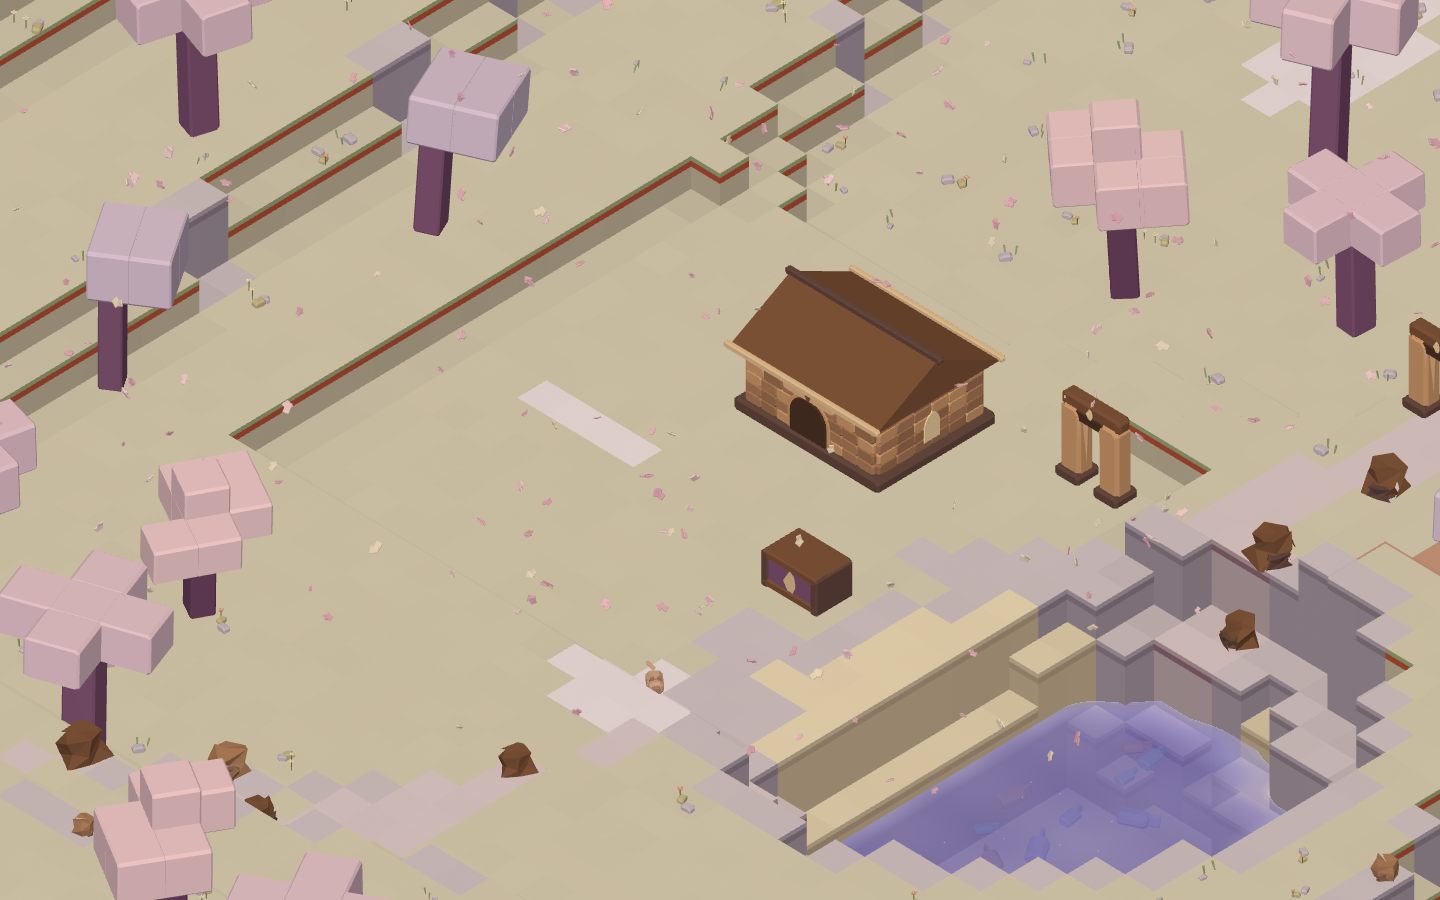
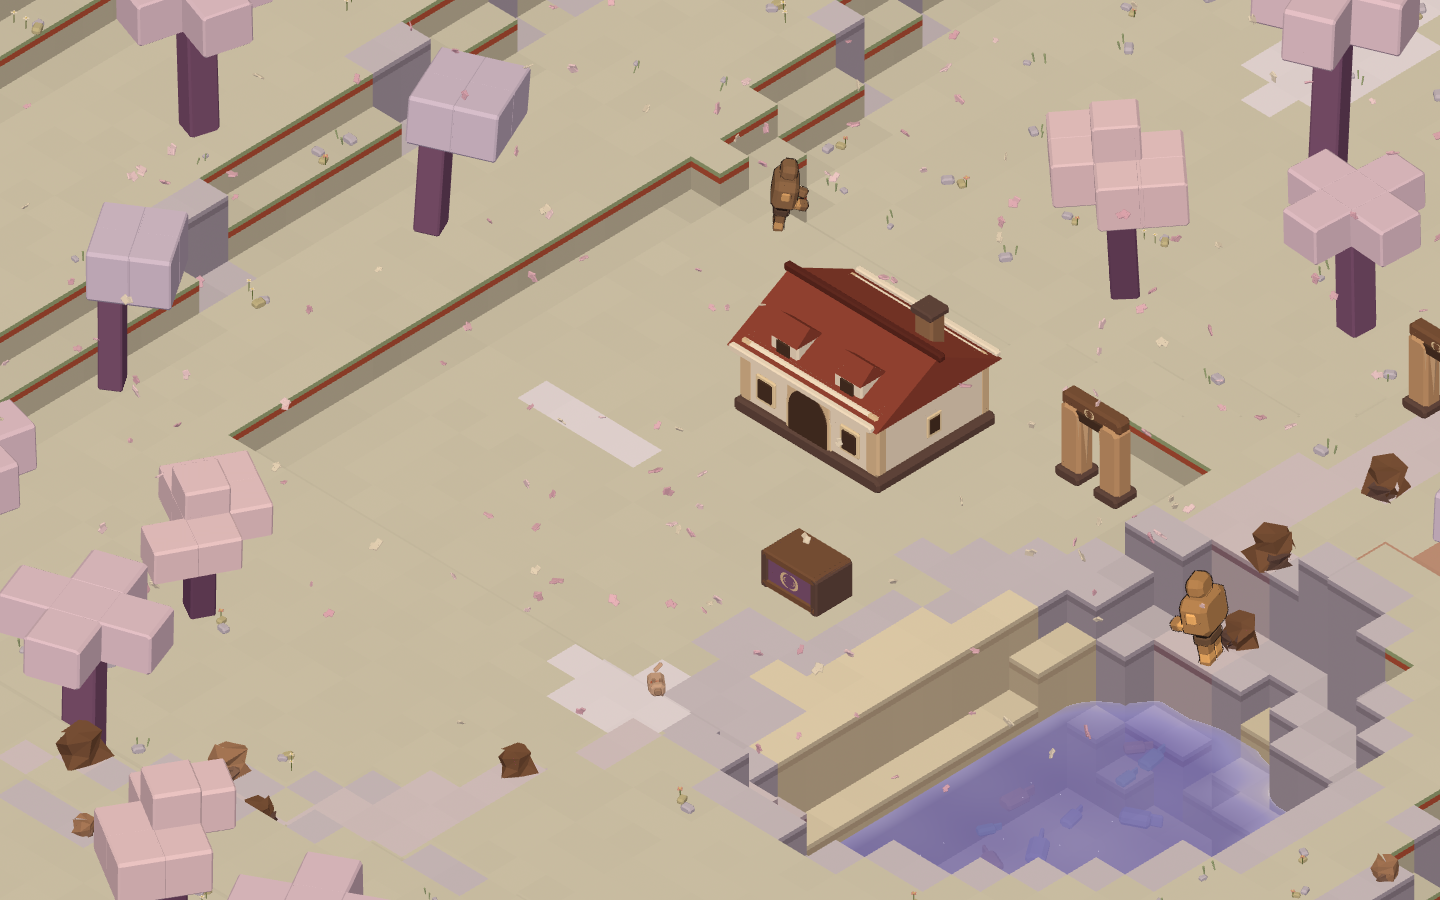
The homestead is a house now, not a box with a lid
Reference: godawful.vercel.app, a low-poly town builder the user pointed at. Its
houses read instantly and mine did not, and studying one up close it comes down
to four things, none of them detail.

THE ROOF IS THE BUILDING. Theirs is half the height of the whole house and
overhangs the walls on every side. Mine was a lid: proportionally small and
stopping flush at the wall. The roof is now 62% of the wall height with a 0.38
eave all round, a ridge beam, and fascia boards in the wall colour so it ties
back to the body instead of floating.

COLOUR SEPARATION. Theirs is a saturated roof on a pale body and the two masses
never merge. Mine was brown walls under a brown roof and the whole thing read as
one lump of stone. Pale plaster walls with cream corner pilasters now, under a
deep oxblood roof — still inside the Seismic warm band, because the separation
that matters is value and saturation, not leaving the palette.

WINDOWS AS A ROW. A building with one window has a window; a building with a row
of them has floors, and the eye reads the storeys off the spacing without being
told. Dark panes in light frames along both long faces and both gable ends, a
second row at tier 3, and they light up at night with the door.

DORMERS AND A CHIMNEY. A roof this size needs breaking or it is a tent.

The log-coursing routine that used to build the walls is gone rather than left
sitting unused — a dwelling is rendered, not stacked out of timbers, and the
[…]

diff --git a/src/world/buildings.js b/src/world/buildings.js
@@ -67,50 +67,44 @@ export function luneArch(w, h, depth = 0.12) {
 
 // --- masonry ----------------------------------------------------------------
 
-/** One course of blocks along X. Courses are offset half a block from the one
- *  below by the caller, which is the only thing separating masonry from a
- *  stack of identical bars. */
-function course(parts, { y, z, x0, x1, h, d, tone, seed = 0, gap = 0.045 }) {
-  const span = x1 - x0
-  const n = Math.max(1, Math.round(span / 0.62))
-  const bw = span / n
-  for (let i = 0; i < n; i++) {
-    const k = ((Math.sin((seed + i * 3.7 + y * 11.3) * 12.9898) * 43758.5453) % 1 + 1) % 1
-    parts.push({
-      geometry: chamferBox(bw - gap, h - gap, d, 0.045),
-      position: [x0 + bw * (i + 0.5), y + h / 2, z],
-      color: k < 0.33 ? tone[0] : k < 0.72 ? tone[1] : tone[2],
-    })
-  }
-}
 
 const WALL_TONES = [UI.stone, UI.stoneMid, UI.stoneLit]
 const DARK_TONES = [UI.stoneDeep, UI.stoneDark, UI.stoneMid]
 
-/** Four walls of coursed masonry, with a gap left for a door on +Z. */
-function walls(parts, { w, d, h, doorW = 0, tone = WALL_TONES, courseH = 0.32 }) {
-  const rows = Math.max(1, Math.round(h / courseH))
-  const ch = h / rows
-  for (let r = 0; r < rows; r++) {
-    const y = r * ch
-    const off = r % 2 ? 0.31 : 0
-    // back and sides
-    course(parts, { y, z: -d / 2, x0: -w / 2, x1: w / 2, h: ch, d: 0.26, tone, seed: r + off })
-    for (const side of [-1, 1]) {
-      const sideParts = []
-      course(sideParts, { y, z: 0, x0: -d / 2, x1: d / 2, h: ch, d: 0.26, tone, seed: r + 5 + off })
-      for (const p of sideParts) {
-        parts.push({ ...p, position: [side * (w / 2), p.position[1], p.position[0]], rotation: [0, Math.PI / 2, 0] })
-      }
+
+/**
+ * The roof tone, and the whole reason the house reads.
+ *
+ * A deep oxblood against pale plaster. Reference town builders put a saturated
+ * roof on a pale body and the two masses never merge; this project had brown
+ * walls under a brown roof and the building came out as one lump of stone. It
+ * stays inside the Seismic warm band — separation is about VALUE and saturation,
+ * not about leaving the palette.
+ */
+const ROOF = '#8f4436'
+const ROOF_DARK = '#5f2c24'
+
+/**
+ * A plain plastered shell: four walls in one pale tone, with a stone base
+ * course. The log-coursing routine is still used by the sheds and the crate,
+ * where a stack of rough timbers is right; a dwelling is rendered instead of
+ * built out of logs, and the difference is what makes it read as a HOUSE.
+ */
+function wallShell(parts, { w, d, h, doorW = 0 }) {
+  const base = 0.26
+  parts.push({ geometry: chamferBox(w + 0.12, base, d + 0.12, 0.05), position: [0, base / 2 + 0.14, 0], color: UI.stoneMid })
+  for (const [sx, sz, ww, dd] of [[0, -d / 2, w, 0.28], [0, d / 2, w, 0.28], [-w / 2, 0, 0.28, d], [w / 2, 0, 0.28, d]]) {
+    parts.push({ geometry: chamferBox(ww, h - base, dd, 0.06), position: [sx, base + (h - base) / 2 + 0.14, sz], color: UI.creamWarm })
+  }
+  // Corner pilasters, a shade darker. Cheap, and they stop a big pale box
+  // reading as a single flat plane from any angle.
+  for (const sx of [-1, 1]) {
+    for (const sz of [-1, 1]) {
+      parts.push({ geometry: chamferBox(0.34, h - base, 0.34, 0.06), position: [sx * (w / 2 - 0.02), base + (h - base) / 2 + 0.14, sz * (d / 2 - 0.02)], color: UI.creamShade })
     }
-    // front, split around the doorway
-    const dh = doorW / 2
-    if (doorW && y < h * 0.62) {
-      course(parts, { y, z: d / 2, x0: -w / 2, x1: -dh, h: ch, d: 0.26, tone, seed: r + 9 + off })
-      course(parts, { y, z: d / 2, x0: dh, x1: w / 2, h: ch, d: 0.26, tone, seed: r + 13 + off })
-    } else {
-      course(parts, { y, z: d / 2, x0: -w / 2, x1: w / 2, h: ch, d: 0.26, tone, seed: r + 9 + off })
-    }
+  }
+  if (doorW) {
+    parts.push({ geometry: chamferBox(doorW + 0.1, h * 0.8, 0.34, 0.05), position: [0, 0.14 + h * 0.4, d / 2], color: UI.creamShade })
   }
 }
 
@@ -128,68 +122,123 @@ export function homestead(tier = 1) {
   const t = Math.max(1, Math.min(4, tier))
   const w = [4.4, 5.2, 6.0, 6.8][t - 1]
   const d = [3.6, 4.2, 4.8, 5.4][t - 1]
-  const h = [1.9, 2.1, 3.0, 3.2][t - 1]
+  // Wall height, and it is deliberately LOW relative to the roof — see below.
+  const h = [1.95, 2.15, 2.85, 3.05][t - 1]
   const parts = []
 
-  // Plinth — every building in the valley stands on one, because the ground
+  // Plinth. Every building in the valley stands on one, because the ground
   // moves and a wall that starts at soil level reads as sinking into it.
   parts.push({ geometry: chamferBox(w + 0.5, 0.28, d + 0.5, 0.07), position: [0, 0.14, 0], color: UI.stoneDark })
-  walls(parts, { w, d, h, doorW: 1.2 })
 
-  // Doorway: the lune arch, recessed, with a dark reveal behind it.
-  parts.push({ geometry: luneArch(1.2, h * 0.62, 0.1), position: [0, 0.28, d / 2 + 0.06], color: UI.stoneShadow })
-  parts.push({ geometry: luneArch(1.42, h * 0.68, 0.14), position: [0, 0.24, d / 2 - 0.02], color: UI.stoneLit })
-  // The lintel stone, with the mark cut into it — which the comment has claimed
-  // since the building went in, while no mark was ever placed on it.
-  parts.push({ geometry: chamferBox(1.7, 0.34, 0.34, 0.06), position: [0, h * 0.68 + 0.34, d / 2], color: UI.stonePale })
-  parts.push({ geometry: markFlatGeometry(), position: [0, h * 0.68 + 0.34, d / 2 + 0.18], scale: [0.3, 0.3, 1], color: UI.stoneDeep })
-
-  // Roof: a wedge, and a ridge beam that overhangs. The overhang is what stops
-  // it reading as a lid.
-  parts.push({ geometry: wedge(w + 0.7, 1.15, d + 0.7), position: [0, h, 0], color: UI.stoneDeep })
-  parts.push({ geometry: chamferBox(w + 0.9, 0.14, 0.18, 0.04), position: [0, h + 1.16, 0], color: UI.stoneDark })
-  parts.push({ geometry: chamferBox(w + 0.85, 0.12, 0.16, 0.035), position: [0, h + 0.06, d / 2 + 0.36], color: UI.creamShade })
-  parts.push({ geometry: chamferBox(w + 0.85, 0.12, 0.16, 0.035), position: [0, h + 0.06, -d / 2 - 0.36], color: UI.creamShade })
-
-  // Windows, as lune arches in cream — the only cream on the building, so they
-  // are what your eye finds from across the valley.
+  // --- the walls -------------------------------------------------------------
+  // PALE, and that is the change. They used to be the same brown family as the
+  // roof and the whole building read as one lump of stone.
   const panes = []
-  for (const side of [-1, 1]) {
-    parts.push({ geometry: luneArch(0.52, 0.8, 0.1), position: [side * (w / 2 + 0.02), h * 0.28, 0], rotation: [0, side * Math.PI / 2, 0], color: UI.creamDeep })
-    panes.push({ at: [side * (w / 2 + 0.1), h * 0.28 + 0.4, 0], size: [0.42, 0.66], rot: side * Math.PI / 2 })
+  wallShell(parts, { w, d, h, doorW: 1.3 })
+
+  /**
+   * WINDOWS AS A ROW, not as one feature.
+   *
+   * Small dark panes in light frames, evenly spaced along both long faces. A
+   * building with one window has a window; a building with a row of them has
+   * floors, and the eye reads the storeys off the spacing without being told.
+   */
+  const cols = Math.max(2, Math.round((w - 1.9) / 1.15))
+  const rows = t >= 3 ? 2 : 1
+  for (let r = 0; r < rows; r++) {
+    const y = h * (rows === 1 ? 0.52 : 0.34 + r * 0.4)
+    for (let c = 0; c < cols; c++) {
+      const x = (c - (cols - 1) / 2) * ((w - 1.5) / Math.max(1, cols - 1))
+      // Skip the middle of the front row: that is where the door is.
+      const overDoor = r === 0 && Math.abs(x) < 0.85
+      for (const side of [1, -1]) {
+        if (side === 1 && overDoor) continue
+        parts.push({ geometry: chamferBox(0.62, 0.72, 0.1, 0.03), position: [x, y, side * (d / 2 + 0.15)], color: UI.creamDeep })
+        parts.push({ geometry: chamferBox(0.44, 0.54, 0.06, 0.02), position: [x, y, side * (d / 2 + 0.2)], color: UI.stoneShadow })
+        panes.push({ at: [x, y, side * (d / 2 + 0.23)], size: [0.4, 0.5], rot: side === 1 ? 0 : Math.PI })
+      }
+    }
   }
-  // And one in the doorway, which is the one that reads from furthest away —
-  // a lit door is a place somebody lives, and it is the only warm light in a
-  // valley that has nobody else in it.
-  panes.push({ at: [0, h * 0.32, d / 2 + 0.09], size: [0.82, 1.0], rot: 0 })
+  // And one on each gable end.
+  for (const side of [-1, 1]) {
+    parts.push({ geometry: chamferBox(0.1, 0.62, 0.52, 0.03), position: [side * (w / 2 + 0.15), h * 0.52, 0], color: UI.creamDeep })
+    parts.push({ geometry: chamferBox(0.06, 0.44, 0.36, 0.02), position: [side * (w / 2 + 0.2), h * 0.52, 0], color: UI.stoneShadow })
+    panes.push({ at: [side * (w / 2 + 0.23), h * 0.52, 0], size: [0.32, 0.4], rot: side * Math.PI / 2 })
+  }
+
+  // --- the doorway -----------------------------------------------------------
+  // The lune arch is the game's own motif and it stays: a recessed dark reveal
+  // with a lighter surround, and the mark cut into the lintel above it.
+  parts.push({ geometry: luneArch(1.3, h * 0.74, 0.1), position: [0, 0.28, d / 2 + 0.06], color: UI.stoneShadow })
+  parts.push({ geometry: luneArch(1.52, h * 0.8, 0.14), position: [0, 0.24, d / 2 - 0.02], color: UI.creamDeep })
+  parts.push({ geometry: chamferBox(1.8, 0.3, 0.36, 0.06), position: [0, h * 0.8 + 0.3, d / 2], color: UI.stonePale })
+  parts.push({ geometry: markFlatGeometry(), position: [0, h * 0.8 + 0.3, d / 2 + 0.2], scale: [0.34, 0.34, 1], color: UI.stoneDeep })
+  panes.push({ at: [0, h * 0.36, d / 2 + 0.14], size: [0.9, h * 0.6], rot: 0 })
+
+  /**
+   * THE ROOF, which is now the building.
+   *
+   * Half the height and overhanging the walls by a fifth of a metre on every
+   * side. That proportion is the single biggest thing separating a house that
+   * reads as a house from a box with a lid: the eye finds the roof first, and a
+   * roof that stops flush at the wall reads as a lid.
+   *
+   * A saturated tone against pale walls, for the same reason — one colour for
+   * the roof and one for the body, far apart, so the two masses never merge.
+   */
+  const roofH = h * 0.62
+  const eave = 0.38
+  parts.push({ geometry: wedge(w + eave * 2, roofH, d + eave * 2), position: [0, h, 0], color: ROOF })
+  // The ridge beam, and the two eave boards. Trim in the wall colour, which is
+  // what ties the roof back to the body instead of letting it float.
+  parts.push({ geometry: chamferBox(w + eave * 2 + 0.2, 0.16, 0.2, 0.04), position: [0, h + roofH + 0.02, 0], color: ROOF_DARK })
+  for (const side of [-1, 1]) {
+    parts.push({ geometry: chamferBox(w + eave * 1.2, 0.14, 0.18, 0.035), position: [0, h + 0.06, side * (d / 2 + eave)], color: UI.creamWarm })
+  }
+
+  /**
+   * DORMERS. Two, on the front pitch.
+   *
+   * They break the roof plane, and a roof this size needs breaking or it is a
+   * tent. Each is a small box with its own little wedge on top, pushed far
+   * enough forward that it clears the slope.
+   */
+  const dormerN = 2
+  for (let i = 0; i < dormerN; i++) {
+    const x = dormerN === 1 ? 0 : (i - 0.5) * w * 0.5
+    const y = h + roofH * 0.30
+    const z = d * 0.5 - roofH * 0.42
+    parts.push({ geometry: chamferBox(0.86, 0.62, 0.8, 0.05), position: [x, y, z], color: UI.creamWarm })
+    parts.push({ geometry: wedge(1.02, 0.42, 0.94), position: [x, y + 0.31, z], color: ROOF })
+    parts.push({ geometry: chamferBox(0.42, 0.4, 0.06, 0.02), position: [x, y + 0.02, z + 0.42], color: UI.stoneShadow })
+    panes.push({ at: [x, y + 0.02, z + 0.46], size: [0.38, 0.36], rot: 0 })
+  }
+
+  // --- the chimney -----------------------------------------------------------
+  parts.push({ geometry: chamferBox(0.5, roofH * 0.95 + 0.5, 0.5, 0.06), position: [w / 2 - 0.85, h + roofH * 0.55, -d / 4], color: UI.stoneMid })
+  parts.push({ geometry: chamferBox(0.66, 0.16, 0.66, 0.04), position: [w / 2 - 0.85, h + roofH * 1.05 + 0.28, -d / 4], color: UI.stoneDark })
 
   if (t >= 2) {
-    // Porch: two posts and a canopy.
+    // Porch: two posts and a canopy over the door.
     for (const side of [-1, 1]) {
-      parts.push({ geometry: COLUMN, position: [side * (w / 2 - 0.4), 1.05, d / 2 + 1.1], scale: [0.22, 2.1, 0.22], color: C.trunk })
+      parts.push({ geometry: COLUMN, position: [side * (w / 2 - 0.5), 0.95, d / 2 + 1.05], scale: [0.2, 1.9, 0.2], color: C.trunk })
     }
-    parts.push({ geometry: chamferBox(w - 0.5, 0.16, 1.5, 0.05), position: [0, 2.16, d / 2 + 0.6], color: UI.stoneDeep })
-    parts.push({ geometry: chamferBox(w + 0.2, 0.2, 0.2, 0.05), position: [0, 0.2, d / 2 + 1.3], color: UI.stoneDark })
-  }
-  if (t >= 3) {
-    // Flue, for the kiln that got built into the house.
-    parts.push({ geometry: chamferBox(0.62, 1.5, 0.62, 0.08), position: [w / 2 - 0.9, h + 0.9, -d / 4], color: UI.stoneMid })
-    parts.push({ geometry: chamferBox(0.78, 0.18, 0.78, 0.05), position: [w / 2 - 0.9, h + 1.72, -d / 4], color: UI.stoneDark })
+    parts.push({ geometry: wedge(w - 0.4, 0.5, 1.7), position: [0, 1.9, d / 2 + 0.6], color: ROOF })
+    parts.push({ geometry: chamferBox(w + 0.2, 0.2, 0.2, 0.05), position: [0, 0.2, d / 2 + 1.25], color: UI.stoneDark })
   }
   if (t >= 4) {
     // The tower and its shard lantern — visible from the ridge, which is the
     // point of it.
-    parts.push({ geometry: chamferBox(1.5, 2.4, 1.5, 0.1), position: [-w / 2 + 0.7, h + 1.2, -d / 4], color: UI.stone })
-    parts.push({ geometry: FLARE, position: [-w / 2 + 0.7, h + 2.55, -d / 4], scale: [1.9, 0.44, 1.9], color: UI.stoneDeep })
-    parts.push({ geometry: shardGeometry(), position: [-w / 2 + 0.7, h + 3.1, -d / 4], scale: [0.42, 0.55, 0.34], color: UI.rose })
+    parts.push({ geometry: chamferBox(1.5, 2.4, 1.5, 0.1), position: [-w / 2 + 0.7, h + 1.2, -d / 4], color: UI.creamShade })
+    parts.push({ geometry: wedge(1.9, 0.8, 1.9), position: [-w / 2 + 0.7, h + 2.4, -d / 4], color: ROOF })
+    parts.push({ geometry: shardGeometry(), position: [-w / 2 + 0.7, h + 3.15, -d / 4], scale: [0.42, 0.55, 0.34], color: UI.rose })
   }
   return {
     geometry: bake(parts),
     footprint: [Math.ceil(w) + 2, Math.ceil(d) + 3],
-    height: h,
+    height: h + roofH,
     panes,
-    // Where the light spills from. Just outside the door, at head height.
-    lamp: [0, h * 0.4, d / 2 + 0.5],
+    lamp: [0, h * 0.5, d / 2 + 0.6],
   }
 }
 

diff --git a/src/main.js b/src/main.js
@@ -75,7 +75,7 @@ const POSES = {
   sheet: { at: [HOME.x, 1.0, HOME.z], size: 3.6, hour: 12 },
   rig: { at: [HOME.x, 1.0, HOME.z], size: 5, hour: 12 },
   pebble: { at: [HOME.x + 2, -0.86, HOME.z + 2], size: 1.4, hour: 12, pebble: true },
-  house: { at: [HOME.x, 1.4, HOME.z - 5], size: 6.5, hour: 12 },
+  house: { at: [HOME.x, 1.4, HOME.z - 5], size: 9.5, hour: 11 },
   waymark: { at: [Math.round(HOME.x + (GATE.x - HOME.x) * 0.4), 1.2, Math.round(HOME.z + (GATE.z - HOME.z) * 0.4)], size: 7, hour: 11 },
   field: { at: [HOME.x, 0.4, HOME.z + 1], size: 8, hour: 11, field: true },
   pond: { at: [HOME.x + 13, -1.1, HOME.z + 2], size: 20, hour: 11 },
